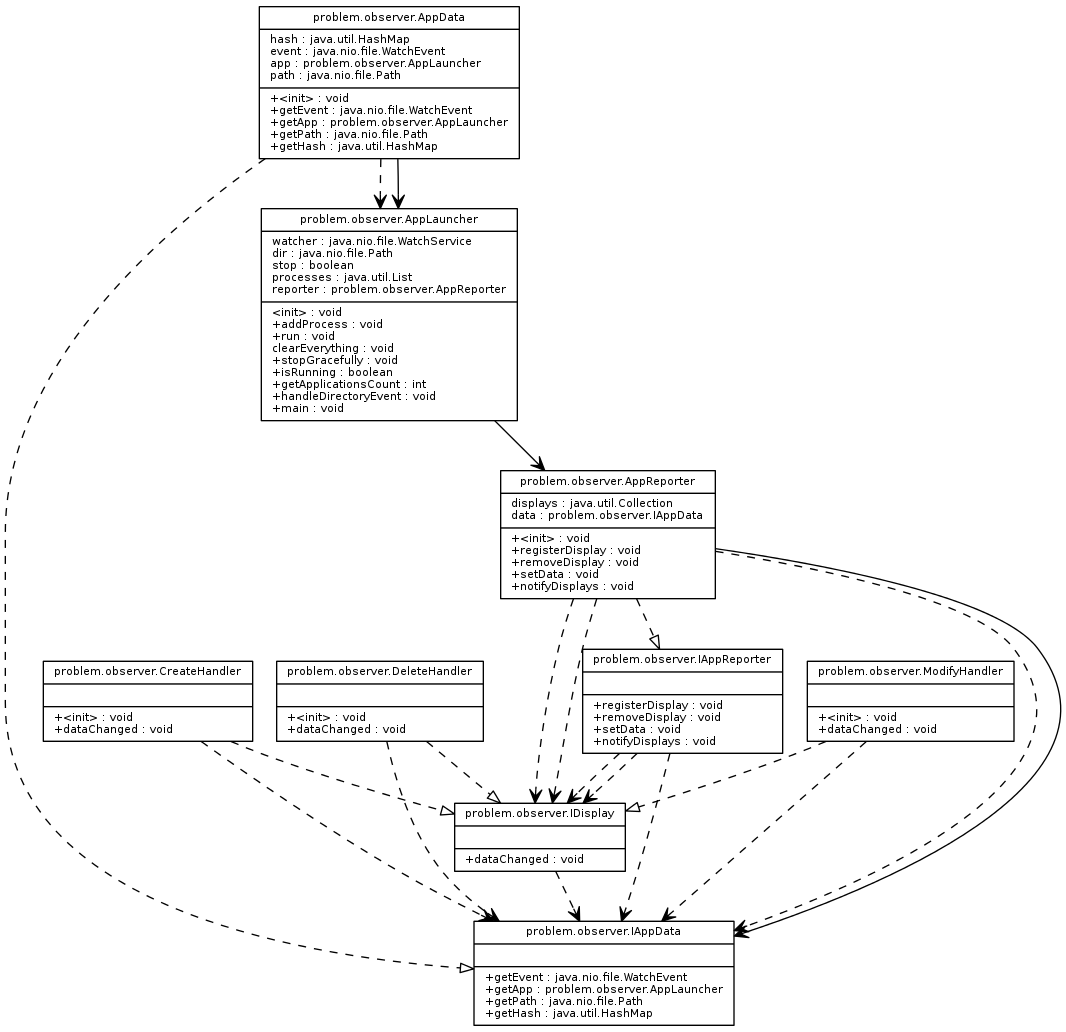
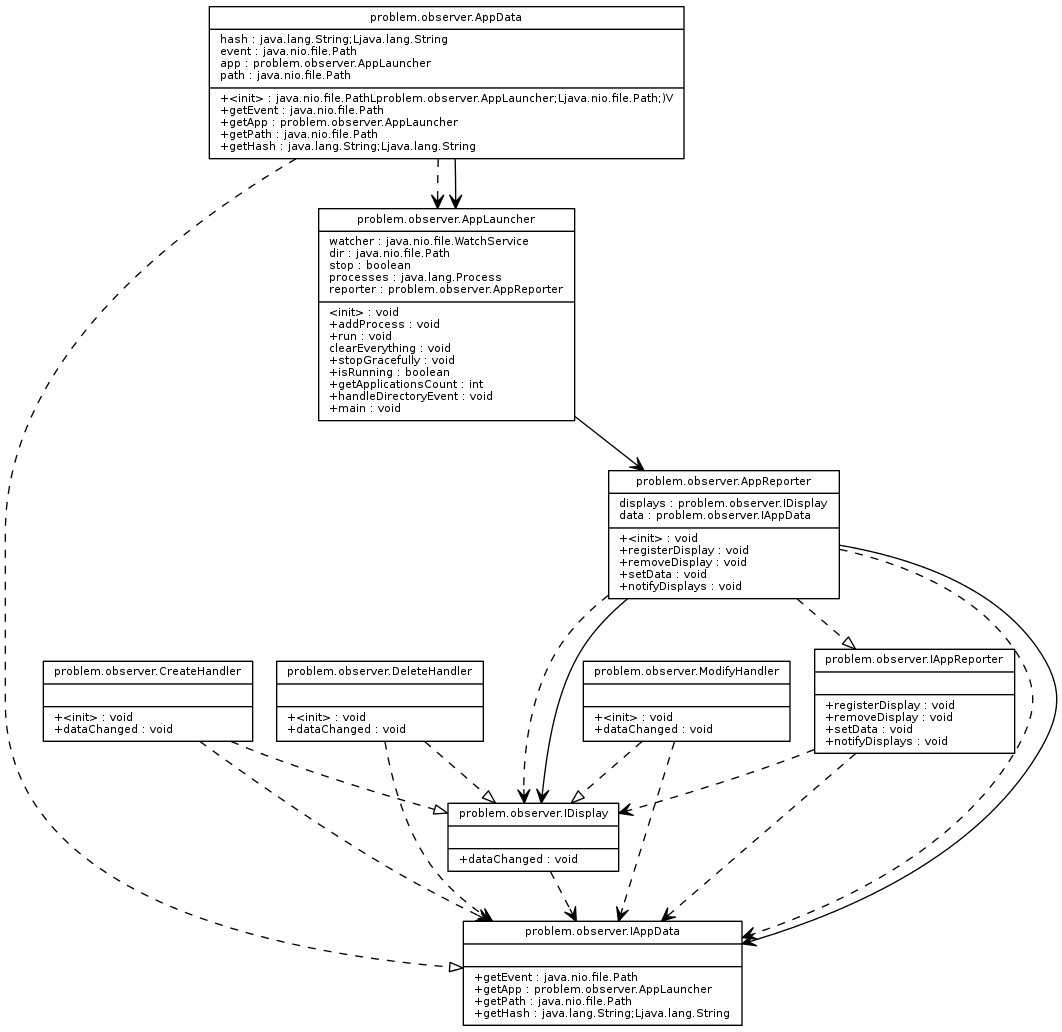
Fixed things, also, sets mean no duplicates

diff --git a/src/problem/asm/DiagramOutputer.java b/src/problem/asm/DiagramOutputer.java
@@ -1,8 +1,8 @@
 package problem.asm;
 
 import java.io.PrintWriter;
-import java.util.ArrayList;
-import java.util.List;
+import java.util.HashSet;
+import java.util.Set;
 
 import org.objectweb.asm.Opcodes;
 import org.objectweb.asm.Type;
@@ -10,10 +10,10 @@ import org.objectweb.asm.Type;
 public class DiagramOutputer implements IOutputData {
 
 	private String filePath;
-	private List<String> subclasses = new ArrayList<String>();
-	private List<String> interfaces = new ArrayList<String>();
-	private List<String> uses = new ArrayList<String>();
-	private List<String> associates = new ArrayList<String>();
+	private Set<String> subclasses = new HashSet<String>();
+	private Set<String> interfaces = new HashSet<String>();
+	private Set<String> uses = new HashSet<String>();
+	private Set<String> associates = new HashSet<String>();
 
 	public DiagramOutputer(String s) {
 		filePath = s;
@@ -138,7 +138,7 @@ public class DiagramOutputer implements IOutputData {
 	}
 	
 	private String parseStringForT(String s) {
-		return s.substring(s.indexOf('<')).replace("<L", "").replace(";>;", "");
+		return s.substring(s.indexOf('<')).replace("<L", "").replace(";>;", "").replace('/', '.');
 	}
 
 }
